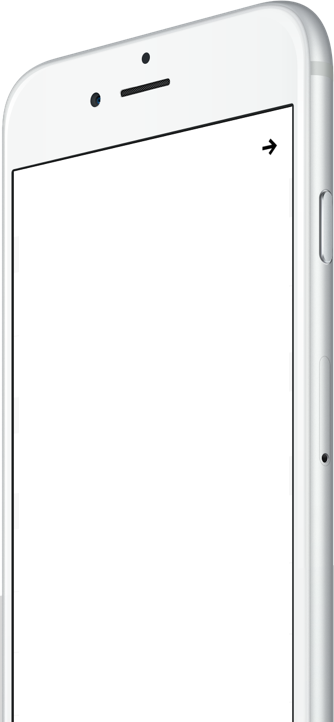
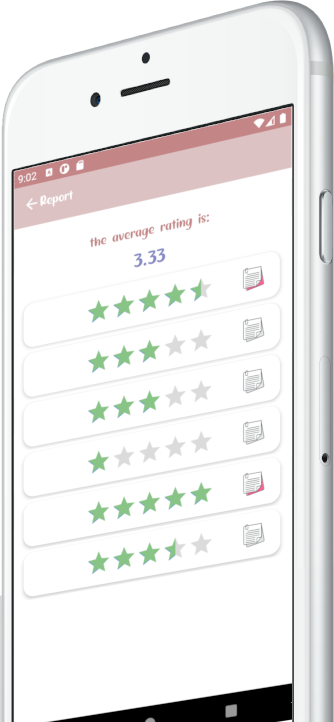
put back history image

diff --git a/index.html b/index.html
@@ -8,7 +8,7 @@
 
 <head>
     <title>Bholder App - Personal Coach - Improve aspects of who you are</title>
-    <meta name="description" content="Bholder - the award winning iPhone app that lets you track your spending and manage your budget in a fun, bold and colourful way. Get Bholder today and start saving.">
+    <meta name="description" content="Bholder - the award winning Android app that lets you track your spending and manage your budget in a fun, bold and colourful way. Get Bholder today and start saving.">
     <meta name="keywords" content="">
     <meta http-equiv="Content-Type" content="text/html; charset=UTF-8" />
     <meta http-equiv="Content-Language" content="en" />
@@ -18,7 +18,7 @@
      <!--<meta name="apple-itunes-app" content="app-id=000000000">-->
 
     <!-- Facebook Open Graph Meta Tags -->
-    <meta property="og:title" content="Bholder for iPhone - Track Your Money With Ease" />
+    <meta property="og:title" content="Bholder for Android - Track Your Money With Ease" />
     <meta property="og:type" content="product" />
     <meta property="og:url" content="http://lia.ir/bholder" />
     <meta property="og:image" content="http://lia.ir/bholder/images/content/hero-social.png" />
@@ -345,8 +345,8 @@
                     <p>
                         Bholder lets you set alarms for actual steps towards your goals or improvements.
                     </p>
-                    <img src="images/content-new/phones-health.png" alt="The Bholder iPhone app allows you to track multiple personal budgets" title="Bholder app stay healthy" style="max-width:856px;" />
-                    <img src="images/content-new/phones-health@2x.png" alt="The Bholder iPhone app allows you to track multiple personal budgets" title="Bholder app stay healthy" style="max-width:856px;" class="retina" />
+                    <img src="images/content-new/phones-health.png" alt="The Bholder Android app allows you to track multiple personal budgets" title="Bholder app stay healthy" style="max-width:856px;" />
+                    <img src="images/content-new/phones-health@2x.png" alt="The Bholder Android app allows you to track multiple personal budgets" title="Bholder app stay healthy" style="max-width:856px;" class="retina" />
                 </article>
             </section>
         </div>
@@ -391,10 +391,10 @@
                 <article class="full">
                     <h2>One Download. All Your Devices.</h2>
                     <p>
-                        Bholder works seamlessly on your iPhone, iPad and Apple Watch. Just download it once from the Google Play Store and it will automatically install on all your devices and sync your budgets for you.
+                        Bholder works seamlessly on your Android, iPad and Apple Watch. Just download it once from the Google Play Store and it will automatically install on all your devices and sync your budgets for you.
                     </p>
-                    <img src="images/content-new/all-devices-center.png" alt="The Bholder iPhone app allows you to track multiple personal budgets" title="Bholder app stay healthy" style="" />
-                    <img src="images/content-new/all-devices-center@2x.png" alt="The Bholder iPhone app allows you to track multiple personal budgets" title="Bholder app stay healthy" style="" class="retina" />
+                    <img src="images/content-new/all-devices-center.png" alt="The Bholder Android app allows you to track multiple personal budgets" title="Bholder app stay healthy" style="" />
+                    <img src="images/content-new/all-devices-center@2x.png" alt="The Bholder Android app allows you to track multiple personal budgets" title="Bholder app stay healthy" style="" class="retina" />
                 </article>
             </section>
         </div>
@@ -408,8 +408,8 @@
                     <p>
                         You can put in some objectives or put in on-going aspects you want to improve in. The set up is easy and you can utilize the app with just one objective. there is no login or sign up required. 
                     </p>
-                    <img src="images/content-new/phones-setup.png" alt="The Bholder iPhone app is simple to use and setup" title="Bholder app easy setup" style="max-width:784px;" />
-                    <img src="images/content-new/phones-setup@2x.png" alt="The Bholder iPhone app is simple to use and setup" title="Bholder app easy setup" style="max-width:784px;" class="retina" />
+                    <img src="images/content-new/phones-setup.png" alt="The Bholder Android app is simple to use and setup" title="Bholder app easy setup" style="max-width:784px;" />
+                    <img src="images/content-new/phones-setup@2x.png" alt="The Bholder Android app is simple to use and setup" title="Bholder app easy setup" style="max-width:784px;" class="retina" />
                 </article>
             </section>
         </div>
@@ -417,7 +417,7 @@
 
 
         <!-- YOUR HISTORY -->
-        <div class="wrapper-inner panel not-centered your-history usp">
+        <div class="wrapper-inner panel not-centered your-history">
             <section class="content vertical-align">
                 <article class="half text-content">
                     <h2>Your History. No Charts.</h2>
@@ -425,9 +425,9 @@
                         Bholder does away with complex charts, tags, diagrams and breakdowns. The idea is to improve and Bholder puts the past data in a simple format for you to see. The focus is always on future. 
                     </p>
                 </article>
-                <article class="half media-content hide">
-                    <img src="images/content-new/phone-history.png" alt="an iPhone app for checking my money and finances" title="Bholder app no history" style="max-width:334px;" class="reduced-width" />
-                    <img src="images/content-new/phone-history@2x.png" alt="an iPhone app for checking my money and finances" title="Bholder app no history" style="max-width:334px;" class="reduced-width retina" />
+                <article class="half media-content">
+                    <img src="images/content-new/phone-history.png" alt="an Android app for checking my money and finances" title="Bholder app no history" style="max-width:334px;" class="reduced-width" />
+                    <img src="images/content-new/phone-history@2x.png" alt="an Android app for checking my money and finances" title="Bholder app no history" style="max-width:334px;" class="reduced-width retina" />
                 </article>
             </section>
         </div>
